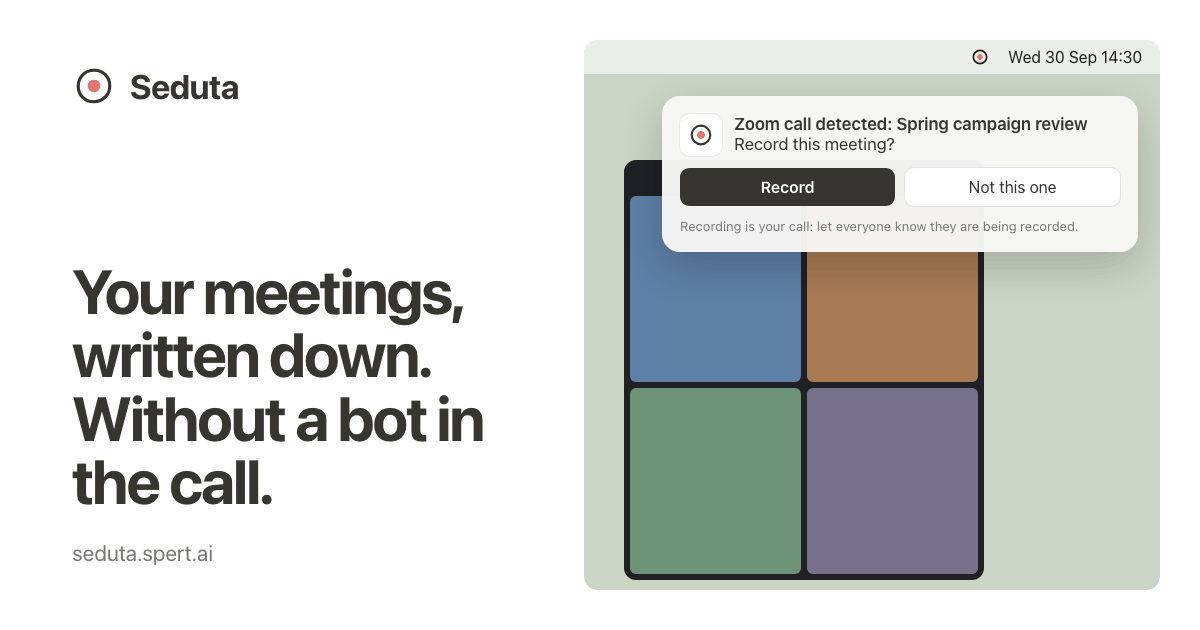
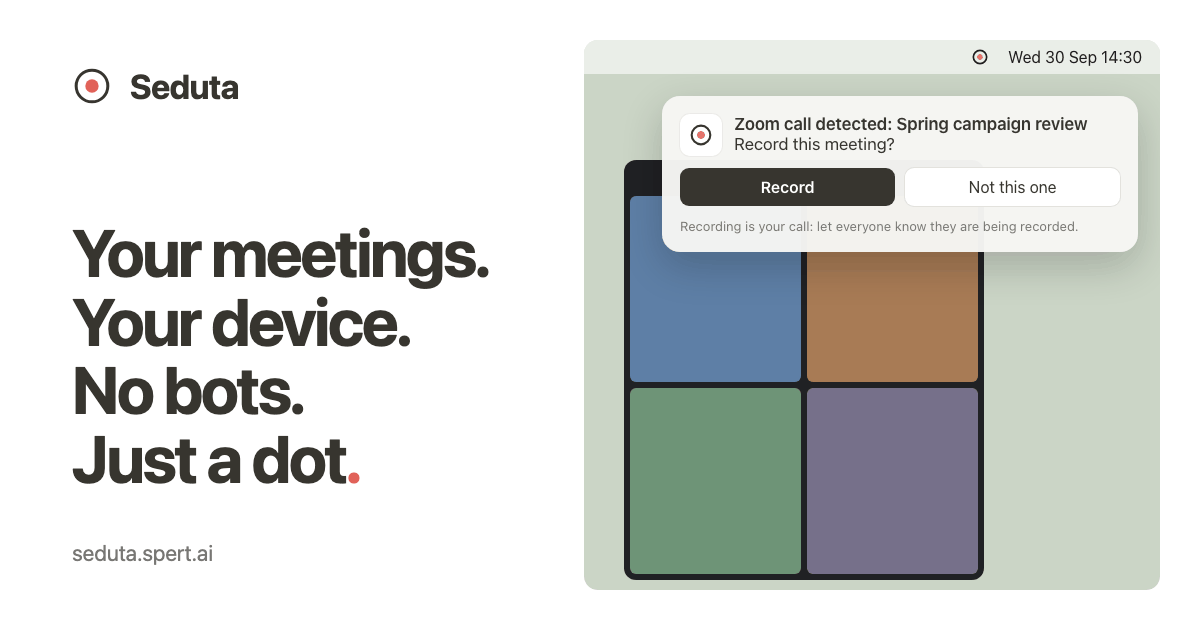
Homepage: iCloud sync explained in the devices section with Apple's security page; new share image

Changed region(s): [[0.0617, 0.3619, 0.4317, 0.8143], [0.0617, 0.0905, 0.0925, 0.181], [0.1233, 0.1206, 0.185, 0.1508]]

diff --git a/index.html b/index.html
@@ -16,7 +16,7 @@
 <meta property="og:image" content="https://seduta.spert.ai/assets/og.png">
 <meta property="og:image:width" content="1200">
 <meta property="og:image:height" content="630">
-<meta property="og:image:alt" content="Seduta: Your meetings, written down. Without a bot in the call. A Mac with a Record this meeting notification.">
+<meta property="og:image:alt" content="Seduta: Your meetings. Your device. No bots. Just a dot. A Mac with a Record this meeting notification.">
 <meta name="twitter:card" content="summary_large_image">
 <meta name="twitter:title" content="Seduta · Meeting notes without a bot in the call">
 <meta name="twitter:description" content="Your meetings. Your device. No bots. Just a dot.">
@@ -99,7 +99,7 @@
 </div></section>
 
 <section class="devs"><div class="in">
-  <div class="top"><h2>Also on iPhone, iPad and Apple Watch.</h2><p>All devices share one Seduta folder. Record on the one you have with you, read the notes on any of them.</p></div>
+  <div class="top"><h2>Also on iPhone, iPad and Apple Watch.</h2><p>They work hand in hand through your own iCloud Drive: record on the one you have with you, read the notes on any of them. It is private to your Apple Account, encrypted by Apple, and end-to-end encrypted if you turn on Advanced Data Protection. <a href="https://support.apple.com/en-us/102651" rel="noopener">How Apple protects iCloud</a>.</p></div>
   <div class="stage">
     <figure class="dev ipad"><div class="fr"><img src="assets/ipad-summary.webp" width="356" height="475" loading="lazy" alt="Seduta on iPad: the meeting list beside the summary of Spring campaign review"></div><figcaption><b>iPad.</b> Your meetings and the notes side by side, in split view.</figcaption></figure>
     <figure class="dev iph"><div class="fr"><img src="assets/iphone-home.webp" width="194" height="440" loading="lazy" alt="Seduta on iPhone: status card, upcoming and recorded meetings"></div><figcaption><b>iPhone.</b> For meetings in person. Phone calls: record in the Phone app, then share to Seduta.</figcaption></figure>
@@ -109,7 +109,7 @@
     </div></div><figcaption><b>Lock screen.</b> A Live Activity shows the recording, with Pause and Stop.</figcaption></figure>
     <figure class="dev wat"><div class="fr"><img src="assets/watch-recording.webp" width="128" height="153" loading="lazy" alt="Seduta on Apple Watch: recording, 12:38, with Pause and Stop"></div><figcaption><b>Watch.</b> Record the conversation you’re in, or pause the phone from your wrist.</figcaption></figure>
   </div>
-  <p class="dev-p">iPhone for meetings in person, with a Live Activity on the lock screen, and phone calls shared from the Phone app. iPad in split view. On the Watch, record the conversation you’re in or pause the phone from your wrist. All devices share one Seduta folder.</p>
+  <p class="dev-p">iPhone for meetings in person, with a Live Activity on the lock screen, and phone calls shared from the Phone app. iPad in split view. On the Watch, record the conversation you’re in or pause the phone from your wrist. They share one Seduta folder in your own iCloud Drive, encrypted by Apple. <a href="https://support.apple.com/en-us/102651" rel="noopener">How Apple protects iCloud</a>.</p>
 </div></section>
 
 <section class="sec"><div class="in priv">
@@ -120,7 +120,7 @@
   </div>
   <div class="rs">
     <div class="pt"><svg width="32" height="32" viewBox="0 0 24 24" aria-hidden="true"><path d="M5.5 6 C5.5 5.4 5.9 5 6.5 5 L17.5 5.1 C18.1 5.1 18.5 5.5 18.5 6.1 L18.5 15 L5.5 15 Z M3 18.6 L21 18.5"/></svg><div><h3>Transcribed on your device.</h3><p>On your Mac, iPhone or iPad. The audio never leaves it for that.</p></div></div>
-    <div class="pt"><svg width="32" height="32" viewBox="0 0 24 24" aria-hidden="true"><path d="M3.5 7 C3.5 6 4.1 5.5 5 5.5 L9.5 5.5 L11.5 7.5 L19 7.5 C19.9 7.5 20.5 8.1 20.5 9 L20.5 17.5 C20.5 18.4 19.9 19 19 19 L5 19 C4.1 19 3.5 18.4 3.5 17.5 Z"/></svg><div><h3>Stored in your iCloud Drive.</h3><p>Every meeting is a folder you can open, back up or delete. No account.</p></div></div>
+    <div class="pt"><svg width="32" height="32" viewBox="0 0 24 24" aria-hidden="true"><path d="M3.5 7 C3.5 6 4.1 5.5 5 5.5 L9.5 5.5 L11.5 7.5 L19 7.5 C19.9 7.5 20.5 8.1 20.5 9 L20.5 17.5 C20.5 18.4 19.9 19 19 19 L5 19 C4.1 19 3.5 18.4 3.5 17.5 Z"/></svg><div><h3>Plain files you own.</h3><p>Every meeting is a folder you can open, back up or delete. No account, no database of ours.</p></div></div>
     <div class="pt"><svg width="32" height="32" viewBox="0 0 24 24" aria-hidden="true"><path d="M3.5 12 L9.5 12 C12 12 12.3 6.5 15 6.5 L20.5 6.5 M9.5 12 C12 12 12.3 17.5 15 17.5 L20.5 17.5 M9.5 12 L20.5 12"/></svg><div><h3>You choose where summaries are written.</h3><p>On the device, on European servers with Plus, or with your own key.</p></div></div>
   </div>
 </div></section>
@@ -207,7 +207,7 @@
   <div class="qs">
     <details name="faq" open><summary>Does anyone see a bot in the call?</summary><div class="a">No. Seduta records on your Mac and hears both sides of the call. Nobody joins, and nothing new shows up in the participant list.</div></details>
     <details name="faq"><summary>Which languages?</summary><div class="a">25 European languages, and people can switch between them within one meeting. Swiss German works on the Mac as an optional download.</div></details>
-    <details name="faq"><summary>Do I need an account?</summary><div class="a">No. There is no Seduta account. Your meetings are files in your own iCloud Drive.</div></details>
+    <details name="faq"><summary>Do I need an account?</summary><div class="a">No. There is no Seduta account. Your meetings are plain files on your devices.</div></details>
     <details name="faq"><summary>What about consent?</summary><div class="a">Recording is your call. Seduta reminds you to let everyone know, next to every record button, and it never records in secret.</div></details>
     <details name="faq"><summary>What happens to the audio?</summary><div class="a">It stays on your device and in your own iCloud Drive folder, nowhere else. After the transcript is ready, the audio is kept for 48 hours (or the time you set), then moves to Recently Deleted, and after that it is erased. You can change both windows in Settings.</div></details>
   </div>
